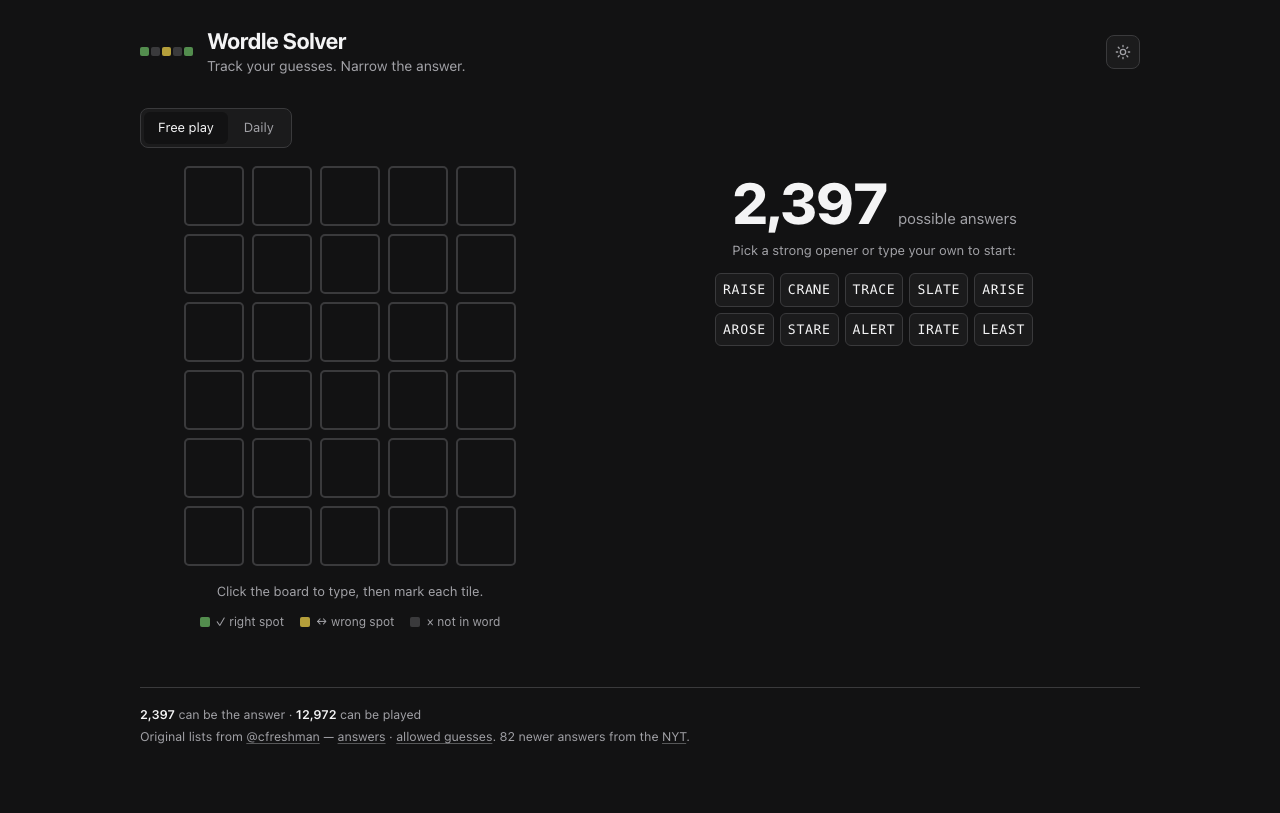
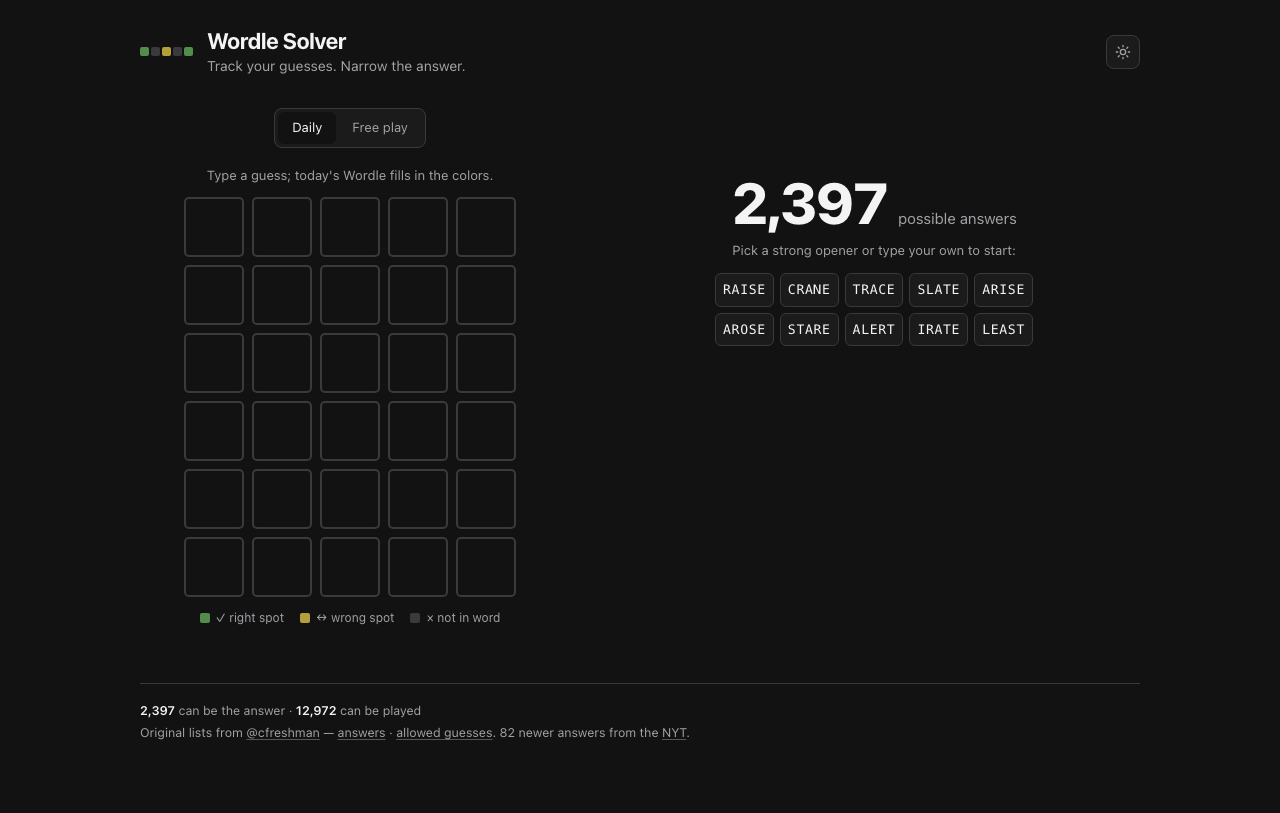
Default to Daily mode and center the mode switch
- Daily is first in the picker and the startup mode
- align the picker with the board column on desktop
- refresh screenshots

diff --git a/web/src/App.test.tsx b/web/src/App.test.tsx
@@ -10,7 +10,7 @@ afterEach(() => {
 
 describe('App', () => {
   it('narrows to a single answer when CRANE is marked all green', () => {
-    render(<App />)
+    render(<App initialMode="free" />)
     expect(screen.getByRole('status').getAttribute('aria-label')).toBe('2397 possible answers')
 
     for (const letter of 'crane') fireEvent.keyDown(window, { key: letter })
@@ -28,7 +28,7 @@ describe('App', () => {
   })
 
   it('falls back to legal guesses when no answer word fits', () => {
-    render(<App />)
+    render(<App initialMode="free" />)
 
     for (const letter of 'zymic') fireEvent.keyDown(window, { key: letter })
 
@@ -45,7 +45,7 @@ describe('App', () => {
   })
 
   it('narrows the count as soon as one tile is marked', () => {
-    render(<App />)
+    render(<App initialMode="free" />)
 
     for (const letter of 'crane') fireEvent.keyDown(window, { key: letter })
     fireEvent.click(screen.getByLabelText('Letter 1 of 5: C, unmarked'))
@@ -58,7 +58,7 @@ describe('App', () => {
   })
 
   it('loads a picked opener into the board', () => {
-    render(<App />)
+    render(<App initialMode="free" />)
 
     fireEvent.click(screen.getByRole('button', { name: 'RAISE' }))
 
@@ -67,7 +67,7 @@ describe('App', () => {
   })
 
   it('does not overwrite a row that is already being marked', () => {
-    render(<App />)
+    render(<App initialMode="free" />)
 
     for (const letter of 'raise') fireEvent.keyDown(window, { key: letter })
     fireEvent.click(screen.getByLabelText('Letter 1 of 5: R, unmarked'))
@@ -80,7 +80,7 @@ describe('App', () => {
   })
 
   it('accepts typing through the guess input', () => {
-    render(<App />)
+    render(<App initialMode="free" />)
 
     fireEvent.change(screen.getByLabelText('Your guess'), { target: { value: 'slate' } })
 
@@ -89,7 +89,7 @@ describe('App', () => {
   })
 
   it('shows the action buttons only after a row is entered', () => {
-    render(<App />)
+    render(<App initialMode="free" />)
 
     expect(screen.queryByRole('button', { name: 'Undo last' })).toBeNull()
 
@@ -100,7 +100,7 @@ describe('App', () => {
   })
 
   it('focuses the hidden guess input when the board is tapped', () => {
-    render(<App />)
+    render(<App initialMode="free" />)
 
     const input = screen.getByLabelText('Your guess')
     fireEvent.click(screen.getByRole('group', { name: 'Guess 1' }))
@@ -109,7 +109,7 @@ describe('App', () => {
   })
 
   it('advances to the next row on Enter from the guess input', () => {
-    render(<App />)
+    render(<App initialMode="free" />)
 
     const input = screen.getByLabelText('Your guess') as HTMLInputElement
     fireEvent.change(input, { target: { value: 'slate' } })
@@ -120,7 +120,7 @@ describe('App', () => {
   })
 
   it('clears marks when the word is edited', () => {
-    render(<App />)
+    render(<App initialMode="free" />)
 
     const input = screen.getByLabelText('Your guess') as HTMLInputElement
     fireEvent.change(input, { target: { value: 'crane' } })
@@ -132,7 +132,7 @@ describe('App', () => {
   })
 
   it('offers the list jump only once a tile is marked', () => {
-    render(<App />)
+    render(<App initialMode="free" />)
 
     fireEvent.click(screen.getByRole('button', { name: 'RAISE' }))
     expect(screen.queryByRole('button', { name: /View all/ })).toBeNull()
@@ -151,7 +151,9 @@ describe('App', () => {
     )
 
     render(<App />)
-    fireEvent.click(screen.getByRole('button', { name: 'Daily' }))
+    expect(screen.getByRole('button', { name: 'Daily' }).getAttribute('aria-pressed')).toBe(
+      'true',
+    )
 
     await waitFor(() => expect(screen.getByText(/fills in the colors/)).toBeTruthy())
 
@@ -171,7 +173,6 @@ describe('App', () => {
     )
 
     render(<App />)
-    fireEvent.click(screen.getByRole('button', { name: 'Daily' }))
 
     await waitFor(() => expect(screen.getByText(/Couldn't load today's Wordle/)).toBeTruthy())
     expect(screen.getByRole('button', { name: 'Retry' })).toBeTruthy()

diff --git a/web/src/App.tsx b/web/src/App.tsx
@@ -13,6 +13,7 @@ const COLS = 5
 
 type Theme = 'light' | 'dark'
 type Mode = 'free' | 'daily'
+type AppProps = { initialMode?: Mode }
 type DailyState =
   | { status: 'idle' }
   | { status: 'loading'; date: string }
@@ -41,11 +42,11 @@ const nextMark = (mark: Mark | null): Mark | null => {
 const currentTheme = (): Theme =>
   document.documentElement.dataset.theme === 'light' ? 'light' : 'dark'
 
-export default function App() {
+export default function App({ initialMode = 'daily' }: AppProps = {}) {
   const [rows, setRows] = useState<Row[]>(() => Array.from({ length: ROWS }, blankRow))
   const [active, setActive] = useState(0)
   const [theme, setTheme] = useState<Theme>(currentTheme)
-  const [mode, setMode] = useState<Mode>('free')
+  const [mode, setMode] = useState<Mode>(initialMode)
   const [dailyState, setDailyState] = useState<DailyState>({ status: 'idle' })
   const [dailyAttempt, setDailyAttempt] = useState(0)
   const inputRef = useRef<HTMLInputElement>(null)
@@ -305,26 +306,28 @@ export default function App() {
         </button>
       </header>
 
-      <div className="mode-bar" role="group" aria-label="Play mode">
-        <button
-          className="mode"
-          type="button"
-          aria-pressed={mode === 'free'}
-          data-mode="free"
-          onClick={() => switchMode('free')}
-        >
-          Free play
-        </button>
-        <button
-          className="mode"
-          type="button"
-          aria-pressed={mode === 'daily'}
-          data-mode="daily"
-          title="Fill in colors from today's Wordle"
-          onClick={() => switchMode('daily')}
-        >
-          Daily
-        </button>
+      <div className="mode-row">
+        <div className="mode-bar" role="group" aria-label="Play mode">
+          <button
+            className="mode"
+            type="button"
+            aria-pressed={mode === 'daily'}
+            data-mode="daily"
+            title="Fill in colors from today's Wordle"
+            onClick={() => switchMode('daily')}
+          >
+            Daily
+          </button>
+          <button
+            className="mode"
+            type="button"
+            aria-pressed={mode === 'free'}
+            data-mode="free"
+            onClick={() => switchMode('free')}
+          >
+            Free play
+          </button>
+        </div>
       </div>
 
       <div className="mobile-bar" aria-live="polite">

diff --git a/web/src/styles.css b/web/src/styles.css
@@ -130,10 +130,20 @@ h1 {
 }
 
 /* mode switch */
+.mode-row {
+  display: grid;
+  grid-template-columns: minmax(300px, 420px) minmax(0, 1fr);
+  gap: 48px;
+  margin-bottom: 18px;
+}
+
+.mode-row .mode-bar {
+  justify-self: center;
+}
+
 .mode-bar {
   display: inline-flex;
   gap: 2px;
-  margin: 0 0 18px;
   padding: 3px;
   border: 1px solid var(--line);
   border-radius: 8px;
@@ -203,10 +213,14 @@ h1 {
     margin-bottom: 14px;
   }
 
-  .mode-bar {
+  .mode-row {
     display: flex;
-    width: max-content;
-    margin: 0 auto 16px;
+    justify-content: center;
+    margin-bottom: 16px;
+  }
+
+  .mode-row .mode-bar {
+    justify-self: auto;
   }
 
   .mobile-bar {

diff --git a/README.md b/README.md
@@ -6,7 +6,7 @@ tiles the way Wordle did, and the candidates narrow as you go.
 **[wordle.watermancorley.com](https://wordle.watermancorley.com/)**
 
 <p align="center">
-  <img src="images/wordle-desktop.png" alt="Wordle Solver on desktop in Free play, with the board, live count, and opener choices" width="820">
+  <img src="images/wordle-desktop.png" alt="Wordle Solver on desktop in Daily mode (the default), with the board, live count, and opener choices" width="820">
   <br><br>
   <img src="images/wordle-mobile.png" alt="Wordle Solver on a phone in Daily mode, with RAISE automatically marked and 30 possible answers" width="330">
 </p>
@@ -26,14 +26,14 @@ tiles the way Wordle did, and the candidates narrow as you go.
 
 ## Play modes
 
+- **Daily** (default) fetches today's Wordle answer through the bundled nginx proxy and fills the
+  colors in automatically. The answer is used only to color tiles; it is not shown up front.
 - **Free play** works on any static host: type a guess and mark the tiles yourself.
-- **Daily** fetches today's Wordle answer through the bundled nginx proxy and fills the colors in
-  automatically. The answer is used only to color tiles; it is not shown up front.
 
-Daily mode requires the Docker/nginx deployment. A browser cannot call the NYT endpoint directly
-because it does not send CORS headers; the nginx proxy makes it same-origin and caches the response
-for six hours. The endpoint is undocumented, so Daily mode degrades to an error with a Retry button
-if it changes or is unavailable.
+Switching modes starts a new board. Daily mode requires the Docker/nginx deployment. A browser
+cannot call the NYT endpoint directly because it does not send CORS headers; the nginx proxy makes it
+same-origin and caches the response for six hours. The endpoint is undocumented, so Daily mode
+degrades to an error with a Retry button if it changes or is unavailable.
 Free play has no network dependency beyond loading the app.
 
 It is a static React + TypeScript bundle. Free play needs no backend; Daily mode uses the same-origin
